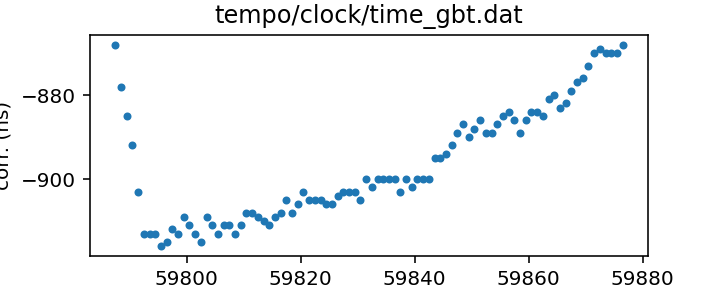
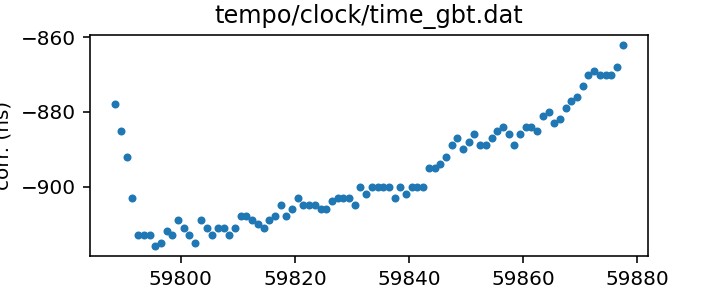
Routine gh-pages update from Github action Wed Oct 26 20:37:45 UTC 2022

diff --git a/status.md b/status.md
@@ -13,17 +13,17 @@ name of each clock file links to a page with more details.
 
 | Name | File | Corrections start | Corrections end | Last check date | Last check result 
 |:--- |:--- | --- | --- | --- |:--- 
-| [GPS to UTC](T2runtime/clock/gps2utc.clk.html) | `T2runtime/clock/gps2utc.clk` | 1993-01-01 MJD 48988.0 | 2022-09-27 MJD 59849.0 | 2022-10-25 | Unchanged 
-| [GPS to UTC (Combined Clock)](T2runtime/clock/gps2utc_cc.clk.html) | `T2runtime/clock/gps2utc_cc.clk` | 1993-01-01 MJD 48988.0 | 2022-09-27 MJD 59849.0 | 2022-10-25 | Unchanged 
-| [GPS to UTC (Corrected)](T2runtime/clock/gps2utc_c0p.clk.html) | `T2runtime/clock/gps2utc_c0p.clk` | 2010-12-29 MJD 55559.0 | 2022-09-27 MJD 59849.0 | 2022-10-25 | Unchanged 
-| [GBT](tempo/clock/time_gbt.dat.html) | `tempo/clock/time_gbt.dat` | 2000-12-31 MJD 51909.5 | 2022-10-24 MJD 59876.5 | 2022-10-25 | Updated 
-| [GBT (TEMPO2 converted from TEMPO)](T2runtime/clock/gbt2gps.clk.html) | `T2runtime/clock/gbt2gps.clk` | 2000-12-31 MJD 51909.5 | 2022-10-24 MJD 59876.5 | 2022-10-25 | Updated 
-| [Jodrell Bank](T2runtime/clock/jb2gps.clk.html) | `T2runtime/clock/jb2gps.clk` | 2006-10-13 MJD 54021.4 | 2021-11-03 MJD 59521.0 | 2022-10-19 | Unchanged 
-| [Jodrell Bank Roach](T2runtime/clock/jbroach2jb.clk.html) | `T2runtime/clock/jbroach2jb.clk` | 2006-10-13 MJD 54021.4 | 2018-03-20 MJD 58197.6 | 2022-10-19 | Unchanged 
-| [Jodrell Bank DFB](T2runtime/clock/jbdfb2jb.clk.html) | `T2runtime/clock/jbdfb2jb.clk` | 2006-10-13 MJD 54021.4 | 2017-05-11 MJD 57884.0 | 2022-10-19 | Unchanged 
+| [GPS to UTC](T2runtime/clock/gps2utc.clk.html) | `T2runtime/clock/gps2utc.clk` | 1993-01-01 MJD 48988.0 | 2022-09-27 MJD 59849.0 | 2022-10-26 | Unchanged 
+| [GPS to UTC (Combined Clock)](T2runtime/clock/gps2utc_cc.clk.html) | `T2runtime/clock/gps2utc_cc.clk` | 1993-01-01 MJD 48988.0 | 2022-09-27 MJD 59849.0 | 2022-10-26 | Unchanged 
+| [GPS to UTC (Corrected)](T2runtime/clock/gps2utc_c0p.clk.html) | `T2runtime/clock/gps2utc_c0p.clk` | 2010-12-29 MJD 55559.0 | 2022-09-27 MJD 59849.0 | 2022-10-26 | Unchanged 
+| [GBT](tempo/clock/time_gbt.dat.html) | `tempo/clock/time_gbt.dat` | 2000-12-31 MJD 51909.5 | 2022-10-25 MJD 59877.5 | 2022-10-26 | Updated 
+| [GBT (TEMPO2 converted from TEMPO)](T2runtime/clock/gbt2gps.clk.html) | `T2runtime/clock/gbt2gps.clk` | 2000-12-31 MJD 51909.5 | 2022-10-25 MJD 59877.5 | 2022-10-26 | Updated 
+| [Jodrell Bank](T2runtime/clock/jb2gps.clk.html) | `T2runtime/clock/jb2gps.clk` | 2006-10-13 MJD 54021.4 | 2021-11-03 MJD 59521.0 | 2022-10-26 | Unchanged 
+| [Jodrell Bank Roach](T2runtime/clock/jbroach2jb.clk.html) | `T2runtime/clock/jbroach2jb.clk` | 2006-10-13 MJD 54021.4 | 2018-03-20 MJD 58197.6 | 2022-10-26 | Unchanged 
+| [Jodrell Bank DFB](T2runtime/clock/jbdfb2jb.clk.html) | `T2runtime/clock/jbdfb2jb.clk` | 2006-10-13 MJD 54021.4 | 2017-05-11 MJD 57884.0 | 2022-10-26 | Unchanged 
 | [Meerkat (observatory)](T2runtime/clock/mk2utc_observatory.clk.html) | `T2runtime/clock/mk2utc_observatory.clk` | 2019-01-01 MJD 58484.0 | 2022-10-05 MJD 59858.0 | 2022-10-24 | Unchanged 
-| [Leap seconds](tempo/clock/leap.sec.html) | `tempo/clock/leap.sec` | 1972-07-01 MJD 41499.0 | 2017-01-01 MJD 57754.0 | 2022-10-25 | Unchanged 
-| [UT1 table](tempo/clock/ut1.dat.html) | `tempo/clock/ut1.dat` | 1973-01-02 MJD 41684.0 | 2023-10-28 MJD 60245.0 | 2022-10-25 | Unchanged 
+| [Leap seconds](tempo/clock/leap.sec.html) | `tempo/clock/leap.sec` | 1972-07-01 MJD 41499.0 | 2017-01-01 MJD 57754.0 | 2022-10-26 | Unchanged 
+| [UT1 table](tempo/clock/ut1.dat.html) | `tempo/clock/ut1.dat` | 1973-01-02 MJD 41684.0 | 2023-10-28 MJD 60245.0 | 2022-10-26 | Unchanged 
 
 
 
@@ -67,21 +67,21 @@ name of each clock file links to a page with more details.
 | [GBT (TEMPO2)](T2runtime/clock/gbt2gps_tempo2.clk.html) | `T2runtime/clock/gbt2gps_tempo2.clk` | 2000-12-31 MJD 51909.5 | 2020-02-25 MJD 58904.5 | 2022-10-24 | Unchanged 
 | [Jodrell Bank (TEMPO)](tempo/clock/time_jb.dat.html) | `tempo/clock/time_jb.dat` | 2006-10-13 MJD 54021.4 | 2019-05-13 MJD 58616.2 | 2022-10-20 | Unchanged 
 | [VLA](tempo/clock/time_vla.dat.html) | `tempo/clock/time_vla.dat` | 1990-10-27 MJD 48191.2 | 2021-03-07 MJD 59280.5 | 2022-10-20 | **Failed to download** 
-| [VLA (TEMPO2)](T2runtime/clock/vla2gps.clk.html) | `T2runtime/clock/vla2gps.clk` | 2015-02-01 MJD 57054.6 | 2021-03-07 MJD 59280.5 | 2022-10-19 | Unchanged 
-| [VLA to NIST](T2runtime/clock/vla2nist.clk.html) | `T2runtime/clock/vla2nist.clk` | 1990-10-27 MJD 48191.2 | 1993-11-13 MJD 49304.0 | 2022-10-19 | Unchanged 
+| [VLA (TEMPO2)](T2runtime/clock/vla2gps.clk.html) | `T2runtime/clock/vla2gps.clk` | 2015-02-01 MJD 57054.6 | 2021-03-07 MJD 59280.5 | 2022-10-26 | Unchanged 
+| [VLA to NIST](T2runtime/clock/vla2nist.clk.html) | `T2runtime/clock/vla2nist.clk` | 1990-10-27 MJD 48191.2 | 1993-11-13 MJD 49304.0 | 2022-10-26 | Unchanged 
 | [FAST](tempo/clock/time_fast.dat.html) | `tempo/clock/time_fast.dat` | 2017-07-26 MJD 57960.4 | 2019-09-18 MJD 58744.0 | 2022-10-20 | **Failed to download** 
 | [WSRT](T2runtime/clock/wsrt2gps.clk.html) | `T2runtime/clock/wsrt2gps.clk` | 1999-01-01 MJD 51179.5 | 2015-06-29 MJD 57202.1 | 2022-10-20 | Unchanged 
 | [WSRT (TEMPO)](tempo/clock/time_wsrt.dat.html) | `tempo/clock/time_wsrt.dat` | 1987-07-24 MJD 47000.0 | 2007-12-24 MJD 54458.0 | 2022-10-20 | **Validation failed** 
-| [Parkes](T2runtime/clock/pks2gps.clk.html) | `T2runtime/clock/pks2gps.clk` | 1858-11-17 MJD 0.0 | 2019-07-31 MJD 58695.4 | 2022-10-19 | Unchanged 
+| [Parkes](T2runtime/clock/pks2gps.clk.html) | `T2runtime/clock/pks2gps.clk` | 1858-11-17 MJD 0.0 | 2019-07-31 MJD 58695.4 | 2022-10-26 | Unchanged 
 | [Parkes (TEMPO)](tempo/clock/time_pks.dat.html) | `tempo/clock/time_pks.dat` | 1979-05-07 MJD 44000.0 | 2011-07-03 MJD 55745.8 | 2022-10-20 | **Validation failed** 
-| [SRT](T2runtime/clock/srt2gps.clk.html) | `T2runtime/clock/srt2gps.clk` | 2013-03-20 MJD 56371.0 | 2019-12-11 MJD 58828.0 | 2022-10-19 | Unchanged 
-| [Effelsberg](T2runtime/clock/eff2gps.clk.html) | `T2runtime/clock/eff2gps.clk` | 1993-11-29 MJD 49320.0 | 2015-06-22 MJD 57195.5 | 2022-10-19 | Unchanged 
-| [Effelsberg Asterix/PSRix](T2runtime/clock/effix2gps.clk.html) | `T2runtime/clock/effix2gps.clk` | 2011-01-01 MJD 55562.5 | 2021-03-21 MJD 59294.5 | 2022-10-19 | Unchanged 
+| [SRT](T2runtime/clock/srt2gps.clk.html) | `T2runtime/clock/srt2gps.clk` | 2013-03-20 MJD 56371.0 | 2019-12-11 MJD 58828.0 | 2022-10-26 | Unchanged 
+| [Effelsberg](T2runtime/clock/eff2gps.clk.html) | `T2runtime/clock/eff2gps.clk` | 1993-11-29 MJD 49320.0 | 2015-06-22 MJD 57195.5 | 2022-10-26 | Unchanged 
+| [Effelsberg Asterix/PSRix](T2runtime/clock/effix2gps.clk.html) | `T2runtime/clock/effix2gps.clk` | 2011-01-01 MJD 55562.5 | 2021-03-21 MJD 59294.5 | 2022-10-26 | Unchanged 
 | [NUPPI](tempo/clock/time_nuppi.dat.html) | `tempo/clock/time_nuppi.dat` | 2005-03-07 MJD 53436.0 | 2015-11-08 MJD 57334.6 | 2022-10-20 | Unchanged 
-| [Meerkat (TEMPO2)](T2runtime/clock/mk2utc.clk.html) | `T2runtime/clock/mk2utc.clk` | 2019-01-01 MJD 58484.0 | 2021-02-22 MJD 59268.0 | 2022-10-19 | Unchanged 
-| [MOST](T2runtime/clock/mo2gps.clk.html) | `T2runtime/clock/mo2gps.clk` | 2003-12-27 MJD 53000.0 | 2018-09-06 MJD 58367.0 | 2022-10-19 | Unchanged 
-| [Nancay to obspm](T2runtime/clock/ncyobs2obspm.clk.html) | `T2runtime/clock/ncyobs2obspm.clk` | 1988-05-18 MJD 47299.6 | 2021-11-01 MJD 59519.6 | 2022-10-19 | Unchanged 
-| [obspm](T2runtime/clock/obspm2gps.clk.html) | `T2runtime/clock/obspm2gps.clk` | 2003-12-01 MJD 52974.0 | 2021-08-28 MJD 59454.0 | 2022-10-19 | Unchanged 
+| [Meerkat (TEMPO2)](T2runtime/clock/mk2utc.clk.html) | `T2runtime/clock/mk2utc.clk` | 2019-01-01 MJD 58484.0 | 2021-02-22 MJD 59268.0 | 2022-10-26 | Unchanged 
+| [MOST](T2runtime/clock/mo2gps.clk.html) | `T2runtime/clock/mo2gps.clk` | 2003-12-27 MJD 53000.0 | 2018-09-06 MJD 58367.0 | 2022-10-26 | Unchanged 
+| [Nancay to obspm](T2runtime/clock/ncyobs2obspm.clk.html) | `T2runtime/clock/ncyobs2obspm.clk` | 1988-05-18 MJD 47299.6 | 2021-11-01 MJD 59519.6 | 2022-10-26 | Unchanged 
+| [obspm](T2runtime/clock/obspm2gps.clk.html) | `T2runtime/clock/obspm2gps.clk` | 2003-12-01 MJD 52974.0 | 2021-08-28 MJD 59454.0 | 2022-10-26 | Unchanged 
 
 
 ### Further information:

diff --git a/T2runtime/clock/gbt2gps.clk.md b/T2runtime/clock/gbt2gps.clk.md
@@ -23,14 +23,13 @@ If questions arise about the conversion, contact Anne Archibald
 | Format | tempo2 |
 | Bogus last correction | False |
 | Clock file start | 2000-12-31 MJD 51909.5 |
-| Clock file end | 2022-10-24 MJD 59876.5 |
+| Clock file end | 2022-10-25 MJD 59877.5 |
 | Update interval (days) | 1 |
-| Last update attempt | 2022-10-25 |
+| Last update attempt | 2022-10-26 |
 | Last update result | Updated |
 
 Log entries from the last few update attempts:
 ```
-2022-10-16 20:41:16.390 - Updated
 2022-10-17 20:42:40.638 - Updated
 2022-10-18 20:42:55.789 - Updated
 2022-10-19 20:43:35.281 - Updated
@@ -40,12 +39,13 @@ Log entries from the last few update attempts:
 2022-10-23 20:41:35.993 - Updated
 2022-10-24 20:43:25.564 - Updated
 2022-10-25 20:44:30.450 - Updated
+2022-10-26 20:37:20.929 - Updated
 ```
 [Full log](https://raw.githubusercontent.com/ipta/pulsar-clock-corrections/main/log/T2runtime/clock/gbt2gps.clk.log)
 
 Leading comments from clock file:
 
-    # This file was automatically converted from tempo/clock/time_gbt.dat on 2022-10-25 20:44:30.359
+    # This file was automatically converted from tempo/clock/time_gbt.dat on 2022-10-26 20:37:20.860
 
 
 

diff --git a/tempo/clock/time_gbt.dat.md b/tempo/clock/time_gbt.dat.md
@@ -18,14 +18,13 @@ If questions arise, contact Ryan S. Lynch <rlynch@nrao.edu>.
 | Format | tempo |
 | Bogus last correction | False |
 | Clock file start | 2000-12-31 MJD 51909.5 |
-| Clock file end | 2022-10-24 MJD 59876.5 |
+| Clock file end | 2022-10-25 MJD 59877.5 |
 | Update interval (days) | 1 |
-| Last update attempt | 2022-10-25 |
+| Last update attempt | 2022-10-26 |
 | Last update result | Updated |
 
 Log entries from the last few update attempts:
 ```
-2022-10-16 20:41:16.321 - Updated
 2022-10-17 20:42:40.189 - Updated
 2022-10-18 20:42:55.717 - Updated
 2022-10-19 20:43:35.192 - Updated
@@ -35,6 +34,7 @@ Log entries from the last few update attempts:
 2022-10-23 20:41:35.922 - Updated
 2022-10-24 20:43:25.323 - Updated
 2022-10-25 20:44:30.357 - Updated
+2022-10-26 20:37:20.858 - Updated
 ```
 [Full log](https://raw.githubusercontent.com/ipta/pulsar-clock-corrections/main/log/tempo/clock/time_gbt.dat.log)
 

diff --git a/T2runtime/clock/vla2nist.clk.md b/T2runtime/clock/vla2nist.clk.md
@@ -16,12 +16,11 @@ This file is pulled from the TEMPO2 repository and may not be fully up-to-date.
 | Clock file start | 1990-10-27 MJD 48191.2 |
 | Clock file end | 1993-11-13 MJD 49304.0 |
 | Update interval (days) | 7 |
-| Last update attempt | 2022-10-19 |
+| Last update attempt | 2022-10-26 |
 | Last update result | Unchanged |
 
 Log entries from the last few update attempts:
 ```
-2022-08-17 20:34:04.884 - Unchanged
 2022-08-24 20:34:36.417 - Unchanged
 2022-08-31 20:34:57.441 - Unchanged
 2022-09-07 20:40:07.572 - Unchanged
@@ -31,6 +30,7 @@ Log entries from the last few update attempts:
 2022-10-05 20:42:16.288 - Unchanged
 2022-10-12 20:43:16.357 - Unchanged
 2022-10-19 20:43:37.784 - Unchanged
+2022-10-26 20:37:22.017 - Unchanged
 ```
 [Full log](https://raw.githubusercontent.com/ipta/pulsar-clock-corrections/main/log/T2runtime/clock/vla2nist.clk.log)
 

diff --git a/T2runtime/clock/srt2gps.clk.md b/T2runtime/clock/srt2gps.clk.md
@@ -16,12 +16,11 @@ This file is pulled from the TEMPO2 repository and may not be fully up-to-date.
 | Clock file start | 2013-03-20 MJD 56371.0 |
 | Clock file end | 2019-12-11 MJD 58828.0 |
 | Update interval (days) | 7 |
-| Last update attempt | 2022-10-19 |
+| Last update attempt | 2022-10-26 |
 | Last update result | Unchanged |
 
 Log entries from the last few update attempts:
 ```
-2022-08-17 20:34:05.471 - Unchanged
 2022-08-24 20:34:37.625 - Unchanged
 2022-08-31 20:34:57.967 - Unchanged
 2022-09-07 20:40:07.975 - Unchanged
@@ -31,6 +30,7 @@ Log entries from the last few update attempts:
 2022-10-05 20:42:17.397 - Unchanged
 2022-10-12 20:43:17.576 - Unchanged
 2022-10-19 20:43:38.934 - Unchanged
+2022-10-26 20:37:22.389 - Unchanged
 ```
 [Full log](https://raw.githubusercontent.com/ipta/pulsar-clock-corrections/main/log/T2runtime/clock/srt2gps.clk.log)
 

diff --git a/T2runtime/clock/vla2gps.clk.md b/T2runtime/clock/vla2gps.clk.md
@@ -16,12 +16,11 @@ This file is pulled from the TEMPO2 repository and may not be fully up-to-date.
 | Clock file start | 2015-02-01 MJD 57054.6 |
 | Clock file end | 2021-03-07 MJD 59280.5 |
 | Update interval (days) | 7 |
-| Last update attempt | 2022-10-19 |
+| Last update attempt | 2022-10-26 |
 | Last update result | Unchanged |
 
 Log entries from the last few update attempts:
 ```
-2022-08-17 20:34:04.699 - Unchanged
 2022-08-24 20:34:36.005 - Unchanged
 2022-08-31 20:34:57.244 - Unchanged
 2022-09-07 20:40:07.430 - Unchanged
@@ -31,6 +30,7 @@ Log entries from the last few update attempts:
 2022-10-05 20:42:15.905 - Unchanged
 2022-10-12 20:43:15.967 - Unchanged
 2022-10-19 20:43:37.417 - Unchanged
+2022-10-26 20:37:21.852 - Unchanged
 ```
 [Full log](https://raw.githubusercontent.com/ipta/pulsar-clock-corrections/main/log/T2runtime/clock/vla2gps.clk.log)
 

diff --git a/T2runtime/clock/mk2utc.clk.md b/T2runtime/clock/mk2utc.clk.md
@@ -16,12 +16,11 @@ This file is pulled from the TEMPO2 repository and may not be fully up-to-date.
 | Clock file start | 2019-01-01 MJD 58484.0 |
 | Clock file end | 2021-02-22 MJD 59268.0 |
 | Update interval (days) | 7 |
-| Last update attempt | 2022-10-19 |
+| Last update attempt | 2022-10-26 |
 | Last update result | Unchanged |
 
 Log entries from the last few update attempts:
 ```
-2022-08-17 20:34:06.331 - Unchanged
 2022-08-24 20:34:39.370 - Unchanged
 2022-08-31 20:34:58.692 - Unchanged
 2022-09-07 20:40:08.550 - Unchanged
@@ -31,6 +30,7 @@ Log entries from the last few update attempts:
 2022-10-05 20:42:19.128 - Unchanged
 2022-10-12 20:43:19.322 - Unchanged
 2022-10-19 20:43:40.600 - Unchanged
+2022-10-26 20:37:23.023 - Unchanged
 ```
 [Full log](https://raw.githubusercontent.com/ipta/pulsar-clock-corrections/main/log/T2runtime/clock/mk2utc.clk.log)
 

diff --git a/T2runtime/clock/mo2gps.clk.md b/T2runtime/clock/mo2gps.clk.md
@@ -16,12 +16,11 @@ This file is pulled from the TEMPO2 repository and may not be fully up-to-date.
 | Clock file start | 2003-12-27 MJD 53000.0 |
 | Clock file end | 2018-09-06 MJD 58367.0 |
 | Update interval (days) | 7 |
-| Last update attempt | 2022-10-19 |
+| Last update attempt | 2022-10-26 |
 | Last update result | Unchanged |
 
 Log entries from the last few update attempts:
 ```
-2022-08-17 20:34:06.487 - Unchanged
 2022-08-24 20:34:39.751 - Unchanged
 2022-08-31 20:34:58.882 - Unchanged
 2022-09-07 20:40:08.646 - Unchanged
@@ -31,6 +30,7 @@ Log entries from the last few update attempts:
 2022-10-05 20:42:19.459 - Unchanged
 2022-10-12 20:43:19.702 - Unchanged
 2022-10-19 20:43:40.969 - Unchanged
+2022-10-26 20:37:23.177 - Unchanged
 ```
 [Full log](https://raw.githubusercontent.com/ipta/pulsar-clock-corrections/main/log/T2runtime/clock/mo2gps.clk.log)
 

diff --git a/T2runtime/clock/gps2utc_c0p.clk.md b/T2runtime/clock/gps2utc_c0p.clk.md
@@ -30,12 +30,11 @@ about the BIPM's published corrections, contact <tai@bipm.org>.
 | Clock file start | 2010-12-29 MJD 55559.0 |
 | Clock file end | 2022-09-27 MJD 59849.0 |
 | Update interval (days) | 1 |
-| Last update attempt | 2022-10-25 |
+| Last update attempt | 2022-10-26 |
 | Last update result | Unchanged |
 
 Log entries from the last few update attempts:
 ```
-2022-10-16 20:41:15.514 - Unchanged
 2022-10-17 20:42:39.443 - Unchanged
 2022-10-18 20:42:55.187 - Unchanged
 2022-10-19 20:43:34.318 - Unchanged
@@ -45,6 +44,7 @@ Log entries from the last few update attempts:
 2022-10-23 20:41:35.497 - Unchanged
 2022-10-24 20:43:24.965 - Unchanged
 2022-10-25 20:44:29.629 - Unchanged
+2022-10-26 20:37:20.567 - Unchanged
 ```
 [Full log](https://raw.githubusercontent.com/ipta/pulsar-clock-corrections/main/log/T2runtime/clock/gps2utc_c0p.clk.log)
 

diff --git a/T2runtime/clock/gps2utc_cc.clk.md b/T2runtime/clock/gps2utc_cc.clk.md
@@ -29,12 +29,11 @@ about the BIPM's published corrections, contact <tai@bipm.org>.
 | Clock file start | 1993-01-01 MJD 48988.0 |
 | Clock file end | 2022-09-27 MJD 59849.0 |
 | Update interval (days) | 1 |
-| Last update attempt | 2022-10-25 |
+| Last update attempt | 2022-10-26 |
 | Last update result | Unchanged |
 
 Log entries from the last few update attempts:
 ```
-2022-10-16 20:41:15.503 - Unchanged
 2022-10-17 20:42:39.433 - Unchanged
 2022-10-18 20:42:55.176 - Unchanged
 2022-10-19 20:43:34.306 - Unchanged
@@ -44,6 +43,7 @@ Log entries from the last few update attempts:
 2022-10-23 20:41:35.485 - Unchanged
 2022-10-24 20:43:24.952 - Unchanged
 2022-10-25 20:44:29.614 - Unchanged
+2022-10-26 20:37:20.557 - Unchanged
 ```
 [Full log](https://raw.githubusercontent.com/ipta/pulsar-clock-corrections/main/log/T2runtime/clock/gps2utc_cc.clk.log)
 

diff --git a/T2runtime/clock/gps2utc.clk.md b/T2runtime/clock/gps2utc.clk.md
@@ -32,12 +32,11 @@ about the BIPM's published corrections, contact <tai@bipm.org>.
 | Clock file start | 1993-01-01 MJD 48988.0 |
 | Clock file end | 2022-09-27 MJD 59849.0 |
 | Update interval (days) | 1 |
-| Last update attempt | 2022-10-25 |
+| Last update attempt | 2022-10-26 |
 | Last update result | Unchanged |
 
 Log entries from the last few update attempts:
 ```
-2022-10-16 20:41:15.471 - Unchanged
 2022-10-17 20:42:39.401 - Unchanged
 2022-10-18 20:42:55.143 - Unchanged
 2022-10-19 20:43:34.269 - Unchanged
@@ -47,6 +46,7 @@ Log entries from the last few update attempts:
 2022-10-23 20:41:35.452 - Unchanged
 2022-10-24 20:43:24.912 - Unchanged
 2022-10-25 20:44:29.569 - Unchanged
+2022-10-26 20:37:20.524 - Unchanged
 ```
 [Full log](https://raw.githubusercontent.com/ipta/pulsar-clock-corrections/main/log/T2runtime/clock/gps2utc.clk.log)
 

diff --git a/T2runtime/clock/ncyobs2obspm.clk.md b/T2runtime/clock/ncyobs2obspm.clk.md
@@ -21,12 +21,11 @@ thus here) can be expected to be somewhat up to date.
 | Clock file start | 1988-05-18 MJD 47299.6 |
 | Clock file end | 2021-11-01 MJD 59519.6 |
 | Update interval (days) | 7 |
-| Last update attempt | 2022-10-19 |
+| Last update attempt | 2022-10-26 |
 | Last update result | Unchanged |
 
 Log entries from the last few update attempts:
 ```
-2022-08-17 20:34:06.711 - Unchanged
 2022-08-24 20:34:40.346 - Unchanged
 2022-08-31 20:34:59.125 - Unchanged
 2022-09-07 20:40:08.835 - Unchanged
@@ -36,6 +35,7 @@ Log entries from the last few update attempts:
 2022-10-05 20:42:20.037 - Unchanged
 2022-10-12 20:43:20.320 - Unchanged
 2022-10-19 20:43:41.580 - Unchanged
+2022-10-26 20:37:23.392 - Unchanged
 ```
 [Full log](https://raw.githubusercontent.com/ipta/pulsar-clock-corrections/main/log/T2runtime/clock/ncyobs2obspm.clk.log)
 
